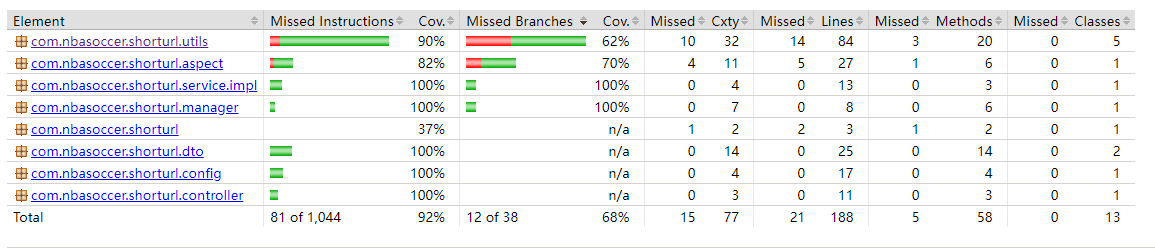
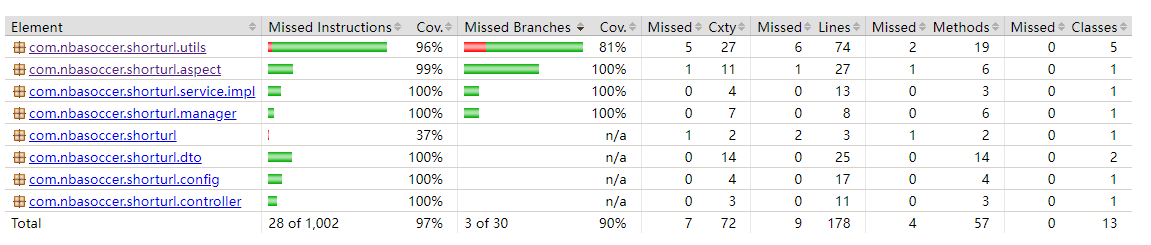
java短链接 44054730@qq.com

Changed region(s): [[0.0, 0.0286, 1.0, 0.9429], [0.0, 0.9714, 1.0, 1.0]]

diff --git a/java/short-url/src/main/java/com/nbasoccer/shorturl/utils/SnowFlake.java b/java/short-url/src/main/java/com/nbasoccer/shorturl/utils/SnowFlake.java
@@ -44,17 +44,10 @@ public class SnowFlake {
      */
     public synchronized long nextId() {
         long currStamp = getNewStamp();
-        if (currStamp < lastStamp) {
-            throw new RuntimeException("Clock moved backwards.  Refusing to generate id");
-        }
 
         if (currStamp == lastStamp) {
             //相同毫秒内，序列号自增
             sequence = (sequence + 1) & MAX_SEQUENCE;
-            //同一毫秒的序列数已经达到最大4096
-            if (sequence == 0L) {
-                currStamp = getNextMill();
-            }
         } else {
             //不同毫秒内，序列号置为0
             sequence = 0L;
@@ -66,14 +59,6 @@ public class SnowFlake {
                 | dataCenterId << DATACENTER_LEFT       //数据中心部分
                 | machineId << MACHINE_LEFT             //机器标识部分
                 | sequence;                             //序列号部分
-    }
-
-    private long getNextMill() {
-        long mill = getNewStamp();
-        while (mill <= lastStamp) {
-            mill = getNewStamp();
-        }
-        return mill;
     }
 
     private long getNewStamp() {

diff --git a/java/short-url/src/test/java/com/nbasoccer/shorturl/ShortUrlControllerTests.java b/java/short-url/src/test/java/com/nbasoccer/shorturl/ShortUrlControllerTests.java
@@ -96,4 +96,21 @@ public class ShortUrlControllerTests {
         }
     }
 
+    @Test
+    public void testInvalidUrlError() throws Exception {
+        mockMvc.perform(MockMvcRequestBuilders.get("/api/create")
+                        .param("longUrl","ss")
+                        .accept(MediaType.APPLICATION_JSON_UTF8_VALUE))
+                .andExpect(MockMvcResultMatchers.status().isOk())
+                .andDo(MockMvcResultHandlers.print());
+    }
+
+    @Test
+    public void testUrlIsNullError() throws Exception {
+        mockMvc.perform(MockMvcRequestBuilders.get("/api/create")
+                        .param("longUrl","")
+                        .accept(MediaType.APPLICATION_JSON_UTF8_VALUE))
+                .andExpect(MockMvcResultMatchers.status().isOk())
+                .andDo(MockMvcResultHandlers.print());
+    }
 }

diff --git a/java/short-url/src/main/java/com/nbasoccer/shorturl/utils/NumericConvertUtils.java b/java/short-url/src/main/java/com/nbasoccer/shorturl/utils/NumericConvertUtils.java
@@ -19,9 +19,9 @@ public class NumericConvertUtils {
      * @return 指定进制的字符串
      */
     public static String toOtherNumberSystem(long number, int seed) {
-        if (number < 0) {
+        /*if (number < 0) {
             number = ((long) 2 * 0x7fffffff) + number + 2;
-        }
+        }*/
         char[] buf = new char[32];
         int charPos = 32;
         while ((number / seed) > 0 && buf.length - charPos < 8) {
